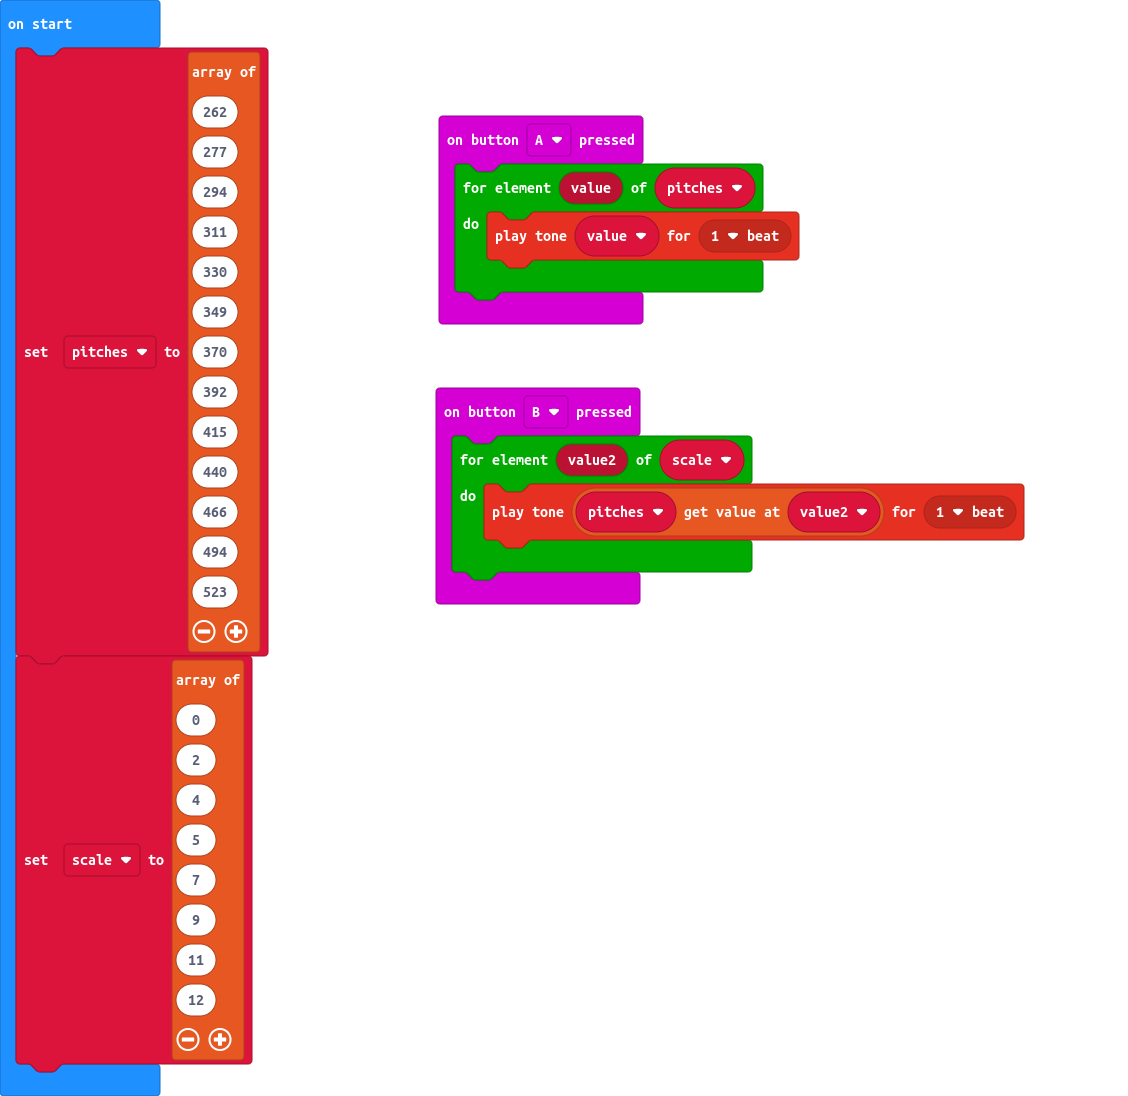
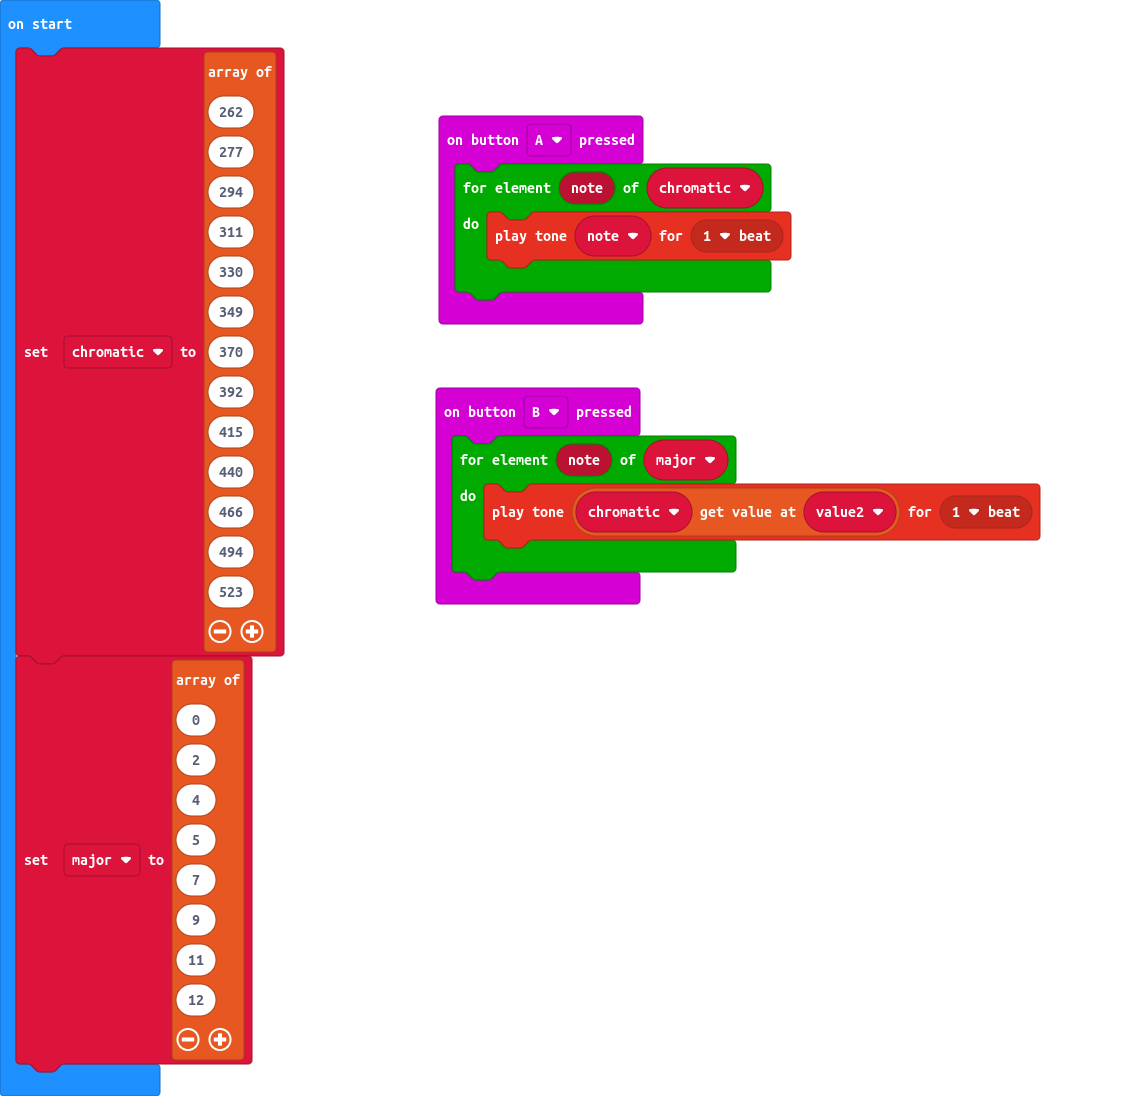
Improve variable names

diff --git a/main.ts b/main.ts
@@ -1,14 +1,14 @@
-input.onButtonPressed(Button.A, function () {
-    for (let value of pitches) {
-        music.playTone(value, music.beat(BeatFraction.Whole))
+input.onButtonPressed(Button.A, function on_button_pressed_a() {
+    for (let note of chromatic) {
+        music.playTone(note, music.beat(BeatFraction.Whole))
     }
 })
-input.onButtonPressed(Button.B, function () {
-    for (let value2 of scale) {
-        music.playTone(pitches[value2], music.beat(BeatFraction.Whole))
+input.onButtonPressed(Button.B, function on_button_pressed_b() {
+    for (let degree of major) {
+        music.playTone(chromatic[degree], music.beat(BeatFraction.Whole))
     }
 })
-let scale: number[] = []
-let pitches: number[] = []
-pitches = [262, 277, 294, 311, 330, 349, 370, 392, 415, 440, 466, 494, 523]
-scale = [0, 2, 4, 5, 7, 9, 11, 12]
+let major : number[] = []
+let chromatic : number[] = []
+chromatic = [Note.C4, Note.CSharp4, Note.D4, Note.Eb4, Note.E4, Note.F4, Note.FSharp4, Note.G4, Note.GSharp4, Note.A4, Note.Bb4, Note.B4, Note.C5]
+major = [0, 2, 4, 5, 7, 9, 11, 12]

diff --git a/main.py b/main.py
@@ -1,26 +1,26 @@
 def on_button_pressed_a():
-    for value in pitches:
-        music.play_tone(value, music.beat(BeatFraction.WHOLE))
+    for note in chromatic:
+        music.play_tone(note, music.beat(BeatFraction.WHOLE))
 input.on_button_pressed(Button.A, on_button_pressed_a)
 
 def on_button_pressed_b():
-    for value2 in scale:
-        music.play_tone(pitches[value2], music.beat(BeatFraction.WHOLE))
+    for degree in major:
+        music.play_tone(chromatic[degree], music.beat(BeatFraction.WHOLE))
 input.on_button_pressed(Button.B, on_button_pressed_b)
 
-scale: List[number] = []
-pitches: List[number] = []
-pitches = [262,
-    277,
-    294,
-    311,
-    330,
-    349,
-    370,
-    392,
-    415,
-    440,
-    466,
-    494,
-    523]
-scale = [0, 2, 4, 5, 7, 9, 11, 12]
+major: List[number] = []
+chromatic: List[number] = []
+chromatic = [Note.C4,
+    Note.CSHARP4,
+    Note.D4,
+    Note.EB4,
+    Note.E4,
+    Note.F4,
+    Note.FSHARP4,
+    Note.G4,
+    Note.GSHARP4,
+    Note.A4,
+    Note.BB4,
+    Note.B4,
+    Note.C5]
+major = [0, 2, 4, 5, 7, 9, 11, 12]
